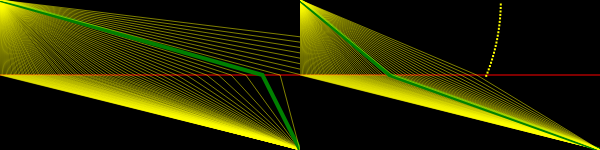
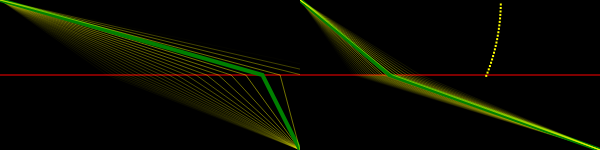
snells law update

Changed region(s): [[0.0, 0.0, 1.0, 1.0]]

diff --git a/other/snellslaw.htm b/other/snellslaw.htm
@@ -43,7 +43,7 @@
                     ctx.fillStyle = "yellow"
                     for (var photon of photons) {
 
-                        var h = photon.flipped ? 0 : H //(H * Math.sqrt(Math.pow(photon.x, 2) + Math.pow(photon.y, 2)))
+                        var h = photon.flipped ? 0 : H 
                         photon.x += Math.max(0, photon.dx - h * photon.x)
                         photon.y += Math.max(0, photon.dy - h * photon.y)
 
@@ -70,7 +70,7 @@
                             ctx.strokeStyle = photon.place === 1 ? "green" : "yellow"
                             ctx.lineWidth = photon.place === 1 ? 4 : 1
                     
-                            ctx.globalAlpha = photon.place === 1 ? 1 : 0.5
+                            ctx.globalAlpha = photon.place === 1 ? 1 : Math.max(0, 0.5 - photon.place/50)
                             ctx.beginPath()
                             ctx.moveTo(0, 0)
                             ctx.lineTo(photon.flipX, boundary)
